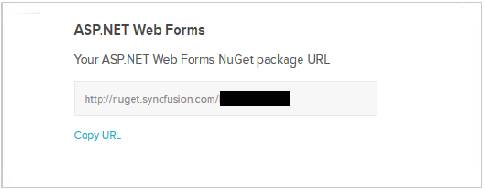
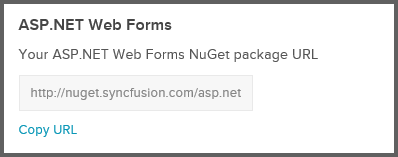
EXT-1338 - Public NuGet UG document modification moved to development.

Changed region(s): [[0.0, 0.0, 1.0, 1.0], [0.0603, 0.4586, 0.603, 0.6369], [0.1508, 0.6879, 0.2714, 0.7389]]

diff --git a/Extension/Syncfusion-NuGet-Packages/NuGet-Install-and-Configuration.md b/Extension/Syncfusion-NuGet-Packages/NuGet-Install-and-Configuration.md
@@ -9,33 +9,29 @@ documentation: ug
 
 # NuGet Install and Configuration
 
-
 ## NuGet Configuration in Visual Studio
 
-You can configure the SyncfusionNuGetPackages files in Visual Studio 2008\2010\2012\2013. SyncfusionNuGet packages are configured in the following ways.
+You can configure the SyncfusionNuGetPackages in Visual Studio 2008\2010\2012\2013. SyncfusionNuGet packages are configured in the following ways.
 
-1. By using Syncfusion’s private feed URL.
-2. From the Syncfusion NuGet downloaded from the website.
+1. By using Syncfusion’s public feed URL.
+2. Downloaded NuGet Packages from Syncfusion Website. 
 
-### Configure the Syncfusion NuGet Packages by using Syncfusion’s private feed URL
+### Configure the Syncfusion NuGet Packages by using Syncfusion’s public feed URL
 
 The following steps help you configure Syncfusion NuGet Packages with a URL.
 
-1. Launch the Microsoft Visual Studio 2008/2010/2012/2013.
+1. Launch the Microsoft Visual Studio 2008/2010/2012/2013/2015.
 2. Select Tools-> NuGet Package Manager-> Package Manager Settings, and the Options dialog opens. 
 3. Navigate to the NuGet Package Manager->Package Sources from the Options dialog. 
-4. Click the Add      	          ![](private-feed-URL_images/private-feed-URL_img1.png)
+4. Click the Add ![](private-feed-URL_images/private-feed-URL_img1.png)
 button to create the new Package Source.
 5. Select the newly created Package Source and rename the source name using the Name input box.
 6. Copy the Syncfusion NuGet Package URL from Syncfusion NuGet account and paste it in the source textbox. You can get the URL by clicking the Copy URL label
-   from the required version and platform provided in the following link: 
+   from the required version and platform provided in the following link: <http://nuget.syncfusion.com> 
    
-   [http://nuget.syncfusion.com/account](http://nuget.syncfusion.com/account) 
-   
-    ![](private-feed-URL_images/private-feed-URL_img2.png)
+   ![](private-feed-URL_images/private-feed-URL_img2.png)
 
 7. Select Update and then click the OK button. The package's source is added to the list of available package sources as shown in the following screenshot.
-
 
    ![](private-feed-URL_images/private-feed-URL_img3.png)
 
@@ -47,39 +43,34 @@ The following steps help you download and configure the downloaded Syncfusion Nu
 
 1. Click the download link of Syncfusion NuGet Package and save the zip file. The download option is shown in the following screenshot.
 
-
    ![](from-downloaded-packages_images/from-downloaded-packages_img1.png)
    
 2. Launch the Visual Studio application.
 3. Navigate to Tools-> NuGet Package Manager-> Package Manager Settings, and the Options dialog opens. 
 4. Select the NuGetPackage Manager->Package Sources from the Options dialog. 
-5. Click the Add      ![](from-downloaded-packages_images/from-downloaded-packages_img2.png)
+5. Click the Add ![](from-downloaded-packages_images/from-downloaded-packages_img2.png)
 button to create the new Package Source.
 6. Select the newly created Package Source and rename the source name from the Name input box and browse the source location with the extracted location of
-   SyncfusionNuGets.
+   Syncfusion NuGets.
 7. Select Update and then click the OK button. The package's source is added to the list of available package sources as shown in the following screenshot.
 
-
-   ![](from-downloaded-packages_images/from-downloaded-packages_img3.png)
-   
+   ![](from-downloaded-packages_images/from-downloaded-packages_img3.png) 
 
 ## NuGet Installation
 
 Refer to the Syncfusion NuGet Packages from the Visual Studio applications. The following steps help you to add the reference of the Syncfusion assemblies in the Project References.
 
 1. Right click on Project and choose the Manage NuGet Packages.
-2. Select Online -> <Created Package Source Name>. 
+2. Select Online -> &lt;Created Package Source Name&gt;. 
    Refer to the following screenshot for more information.
  
    ![](NuGet-Installation_images/NuGet-Installation_img1.png)
 
-   Manage NuGet Packages
-
 3. Install the required corresponding framework control to use in Visual Studio projects. You can install the dependent assemblies when needed.
 
-N> The framework number at the end of package name like, 35, 40, and 45, 451 is added.
+4. Find the installed Syncfusion Packages in the Directory location, of the solution file, of the created project (Syncfusion Packages).
 
-4.Find the installed Syncfusion Packages in the Directory location, of the solution file, of the created project (Syncfusion Packages).
+N> The framework number at the end of package name like, 35, 40, and 45, 451 is added.
 
 ## Install from Package Manager Console
 
@@ -92,7 +83,9 @@ You can install the Syncfusion NuGet packages by using the Package Manager Conso
 
 3. Run the following command to install the specified NuGet Package with the package name.
 
-Install-package {package name}. Example: install-package Syncfusion.Chart.WPF45.
+   Install-package {package name}
+    
+   For Example: install-package Syncfusion.Chart.WPF45.
 
 
 ## Visual Studio Toolbox manual configuration
@@ -102,8 +95,6 @@ To configure the Syncfusion control in the Visual Studio Toolbox manually with t
 1. Create a new tab named Syncfusion in the toolbox.
 
    ![](Visual-Studio-Toolbox-manual-configuration_images/Visual-Studio-Toolbox-manual-configuration_img1.png)
-
-
 
 2. Right-click and select the Choose Items.
 
@@ -117,10 +108,9 @@ To configure the Syncfusion control in the Visual Studio Toolbox manually with t
 5. Navigate to the SyncfusionWPF assembly from the packages location of the project. You do not have to add the design assemblies
 6. Click OK, and the assemblies are copied to the newly created Syncfusion WPF Toolbox tab.
 
-
 ## NuGet Updates
 
-The following steps help you update the SyncfusionNuGet to your Project.
+The following steps help you update the Syncfusion NuGet to your Project.
 
 1. Before updating the packages, configure the latest NuGet’s details in Visual Studio. 
 2. Right-click on Project and choose Manage NuGet Packages. 

diff --git a/Extension/Syncfusion-NuGet-Packages/Overview.md b/Extension/Syncfusion-NuGet-Packages/Overview.md
@@ -9,9 +9,9 @@ documentation: ug
 
 # Syncfusion NuGet Packages
 
-Syncfusion assemblies are packed by NuGet Packages. Get the Syncfusion NuGet Packages from the following link by logging in with your SyncfusionAccount credentials.
-
-<http://nuget.syncfusion.com/account>
+Syncfusion assemblies are packed by NuGet. Get the Syncfusion NuGet Packages from the following link.
+ 
+<http://nuget.syncfusion.com> 
 
 ## Supported Platforms details for Syncfusion NuGet Packages
 
